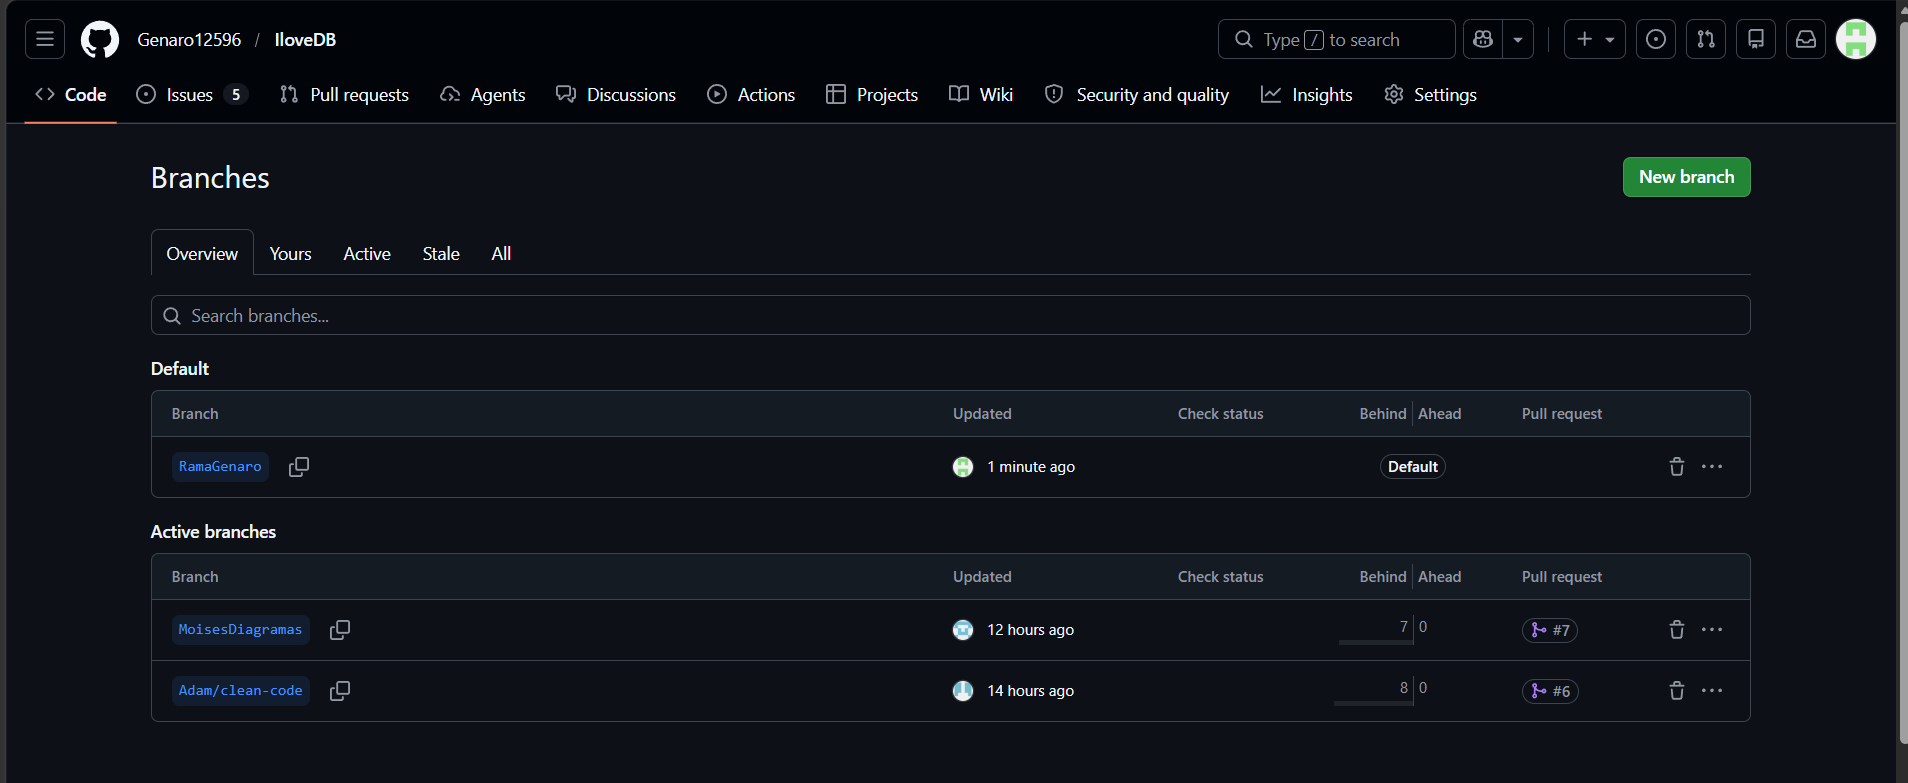
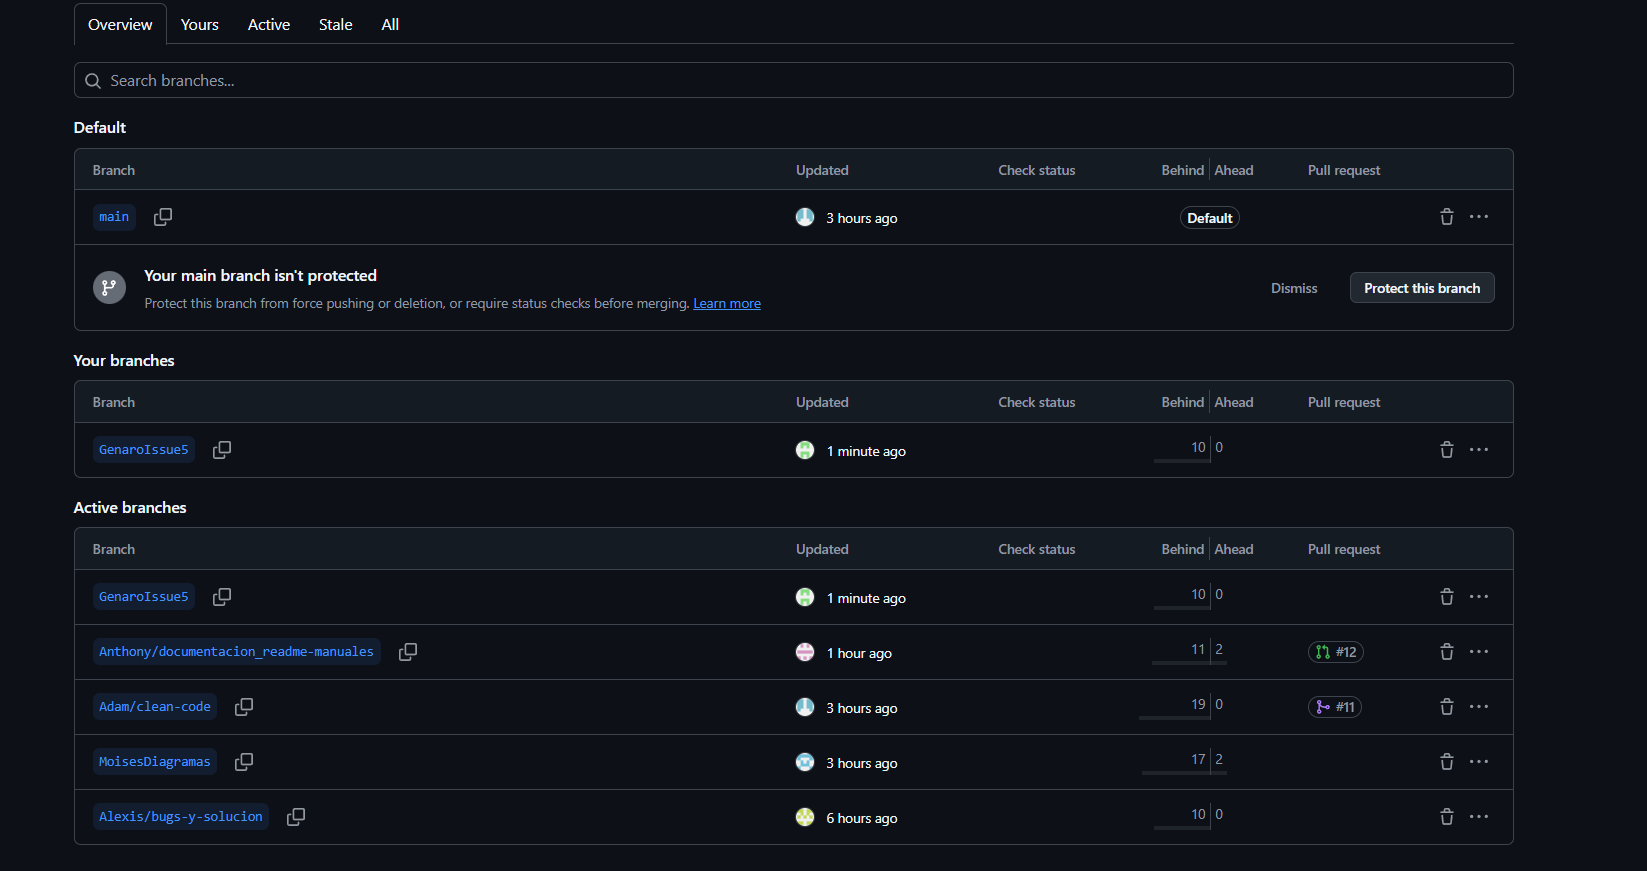
Agrega Evidencias de los entornos de desarrollo del equipo

diff --git a/docs/flujo_de_trabajo.md b/docs/flujo_de_trabajo.md
@@ -45,39 +45,61 @@ El proceso de integración se realizó mediante *Pull Requests*, asegurando que 
 ### Adam Eliseo Lopez Presas
 *(commit realizando buenas practicas de programación en ILoveBD)*
 ![Evidencia commit Adam](../assets/images/commit_adam.png)
-*(Pull request #6)*
+*(Pull request )*
 ![Evidencia PR Adam](../assets/images/pr_adam.png)
 
 ### Moises Alejandro Valdez Avila
 *(Commit Se Agregaron 2 Diagramas y se Adjuntaron Las imagenes a Assets)*
 ![Evidencia commit Moises](../assets/images/commit_moi.png)
-*(Pull request #7)*
+*(Pull request )*
 ![Evidencia PR Moises](../assets/images/pr_moi.png)
 
+### Anthony Gael Lopez Guerrero
+*(commits realizados)*
+![Evidencia commit Anthony](../assets/images/commit_antony.jpeg)
+*(Pull request )*
+![Evidencia PR Anthony](../assets/images/pr_antony.png)
+
+### Alexis David Velazquez Garcia 
+*(commits realizados)*
+![Evidencia commit Anthony](../assets/images/commit_alexis.png)
+*(Pull request )*
+![Evidencia PR Anthony](../assets/images/pr_alexis.png)
 
 ### Genaro Perez Nuñez
-*(Commit Evidencia de flujo de trabajo y uso de entornos Linux)*
+*(Commit realizados)*
 ![Evidencia commit Genaro](../assets/images/commit_genaro.png)
+*(Pull request )*
+![Evidencia PR Anthony](../assets/images/pr_genaro.png)
 
 
 ## 5. Entorno de Desarrollo y Ejecución (Linux/WSL2)
 Para garantizar un ambiente estandarizado, el proyecto fue desarrollado íntegramente utilizando entornos basados en Linux (WSL2 y distribuciones nativas). Se emplearon entornos virtuales (`venv`) para aislar las dependencias requeridas por Flask.
+**Alexis David Velazquez Garcia**
+![Creación y levantamiento](../assets/images/entorno_alexis_1.jpeg)
+
+**Genaro Perez Nuñez**
+![Creacion y levantamiento](../assets/images/entorno_genaro_1.png)
+
+**Adam Eliseo Lopez Presas**
+![Creacion y levantamiento](../assets/images/entorno_adam.jpeg)
+
+**Anthony Gael Lopez Guerrero**
+![Creacion y levantamiento](../assets/images/entorno_anthony.jpeg)
 
 A continuación se presentan las evidencias de las terminales de cada integrante, demostrando la ejecución local del proyecto en estos entornos:
 
 **Alexis David Velazquez Garcia**
-![Creación y levantamiento](../assets/images/entorno_alexis_1.jpeg)
 ![Software en ejecución](../assets/images/entorno_alexis_2.jpeg)
 
 **Anthony Gael Lopez Guerrero**
-![Evidencia Terminal Anthony](../assets/images/entorno_anthony.png)
+![Evidencia Terminal Anthony](../assets/images/entorno_anthony1.jpeg)
 
 **Adam Eliseo Lopez Presas**
-![Evidencia Terminal Adam](../assets/images/entorno_adam.png)
+![Evidencia Terminal Adam](../assets/images/entorno_adam1.jpeg)
 
 **Moises Alejandro Valdez Avila**
-![Evidencia Software en ejecucion Moises](../assets/images/Inicio.png)
+![Evidencia Software en ejecucion Moises](../assets/images/entorno_moi.jpeg)
 
 **Genaro Perez Nuñez**
-![Evidencia Terminal Genaro](../assets/images/entorno_genaro_1.png)
 ![Software en Ejecucion](../assets/images/entorno_genaro.png)